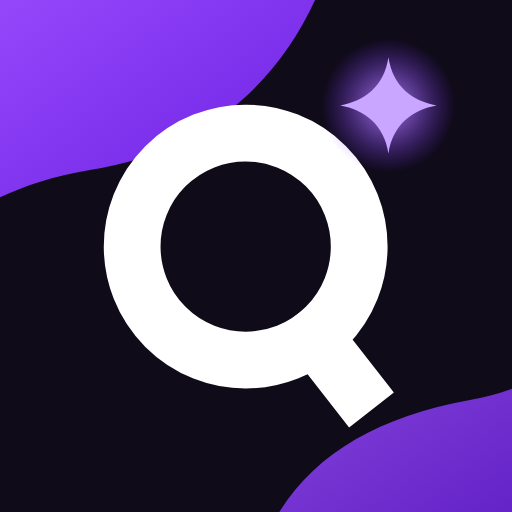
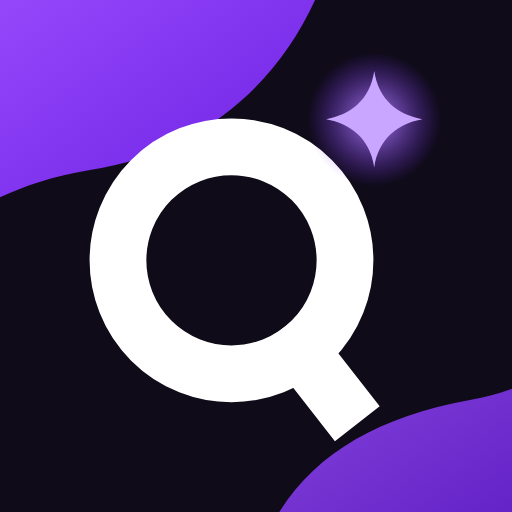
v87 : icône centrée (Q + étoile), distance des quêtes = vrai trajet
Claude-Session: https://claude.ai/code/session_01QrpCiG9GfaW4vbnyS2JTTs

diff --git a/index.html b/index.html
@@ -1042,7 +1042,7 @@ body::after{bottom:-60px;right:-80px;width:220px;height:170px;border-radius:120p
    ========================================================= */
 
 const KEY = 'questrun.v1';
-const VERSION = 'v86';
+const VERSION = 'v87';
 const PTS = { common: 100, rare: 250, epic: 500, legend: 1000, mythic: 2000 };
 // rareté d'une carte = effort pour y aller et revenir (km A/R + D+) ; un trésor caché monte d'un cran (27/10)
 const TIERS = ['common', 'rare', 'epic', 'legend'];
@@ -1324,7 +1324,21 @@ function weekId(d = new Date()) {
   return y + '-W' + String(w).padStart(2, '0');
 }
 function daysLeft() { const d = new Date().getDay() || 7; return 8 - d; }
-function roundTripKm(p) { return (p.dist * 2 * ROAD / 1000); }
+// 05/11 : si le vrai trajet est connu (calculé une fois), on affiche sa distance partout (S.rkm)
+function roundTripKm(p) { const k = S.rkm && S.rkm[p.id]; return k || (p.dist * 2 * ROAD / 1000); }
+// calcule le vrai trajet maison → lieu en arrière-plan et le garde
+const rkmBusy = {};
+async function fetchRouteKm(p) {
+  if (!p || !S.home || (S.rkm && S.rkm[p.id]) || rkmBusy[p.id]) return null;
+  rkmBusy[p.id] = 1;
+  try {
+    const rare = p.rarity === 'rare', t = { lat: rare ? p.zlat : p.lat, lng: rare ? p.zlng : p.lng };
+    const R = await makeRoute({ lat: S.home.lat, lng: S.home.lng }, t, null, sportOf({ sport: S.sport }).router);
+    if (!R || !R.real || !R.dist) return null;
+    S.rkm = S.rkm || {}; S.rkm[p.id] = R.dist * 2 / 1000; save();
+    return S.rkm[p.id];
+  } catch (e) { return null; } finally { delete rkmBusy[p.id]; }
+}
 let toastT;
 function toast(msg) { const t = $('#toast'); t.textContent = msg; t.classList.add('on'); clearTimeout(toastT); toastT = setTimeout(() => t.classList.remove('on'), 2600); }
 
@@ -2286,7 +2300,7 @@ function openQuest(i) {
       <button class="qsharei" id="qshare" aria-label="Partager la quête avec un ami"><svg viewBox="0 0 24 24" fill="none" stroke="currentColor" stroke-width="2.2" stroke-linecap="round" stroke-linejoin="round"><path d="M12 3v12"/><path d="M7.5 7.5 12 3l4.5 4.5"/><path d="M5 12v7a2 2 0 0 0 2 2h10a2 2 0 0 0 2-2v-7"/></svg></button></div>
     ${tierBadge(qTier(q), ` · +${PTS[qTier(q)]} ★`)}${q.legend && !q.star && !q.bought ? ` <span class="legtime" style="font-size:13px">⏳ encore ${hoursLeft(q)} h</span>` : ''}
     <h3 style="margin:8px 0 2px">${esc(q.mythic ? q.mythName : mysteryName(p))}</h3>
-    <p class="muted" style="margin:0 0 12px">${esc(p.label)} · ≈ ${roundTripKm(p).toFixed(1).replace('.', ',')} km aller-retour ${hillBadge(questDplus(p))}</p>
+    <p class="muted" style="margin:0 0 12px">${esc(p.label)} · <span id="qkm">${S.rkm && S.rkm[p.id] ? '' : '≈ '}${roundTripKm(p).toFixed(1).replace('.', ',')}</span> km aller-retour ${hillBadge(questDplus(p))}</p>
     ${sageBox('', 'qsay')}
     <div class="row" style="margin-top:0"><button class="btn run" id="gorun">🏃 J'y vais !</button></div>
     ${S.testMode ? '<button class="link" id="here" style="margin:4px auto 0">✅ J\'y suis (test)</button>' : ''}
@@ -2300,6 +2314,8 @@ function openQuest(i) {
   sh.querySelector('#lost').onclick = () => report(i);
   sh.querySelector('#qshare').onclick = () => shareQuest(q, p);
   typeText(sh.querySelector('#qsay'), say, sh.querySelector('#qsayb'));
+  // vraie distance du trajet (même calcul que l'écran de départ)
+  fetchRouteKm(p).then(k => { const e = sh.querySelector('#qkm'); if (k && e && e.isConnected) e.textContent = k.toFixed(1).replace('.', ','); });
   const row = document.querySelector(`#qlist .quest[data-i="${i}"] .num`); if (row) row.classList.remove('new');
 }
 
@@ -3462,6 +3478,7 @@ async function planRoute() {
   const R = await makeRoute(from, t, RUN.phase === 'back' ? RUN.goRoute : null, sportOf(RUN).router);
   if (!RUN || RUN.sport !== want) return; // sport changé entre-temps
   RUN.route = R;
+  if (RUN.phase === 'go' && !RUN.rerouted && R.real && R.dist && S.home && dist(from, S.home) < 300) { const p0 = placeById(RUN.pid); if (p0) { S.rkm = S.rkm || {}; S.rkm[p0.id] = R.dist * 2 / 1000; save(); } }
   if (RUN.phase === 'go' && !RUN.goRoute) RUN.goRoute = RUN.route.pts.filter((_, i) => i % 3 === 0).map(p => [p[0], p[1]]);
   if (RUN.phase === 'go' && RUN.rerouted) RUN.goRoute = RUN.goRoute.concat(RUN.route.pts.filter((_, i) => i % 3 === 0).map(p => [p[0], p[1]]));
   saveRun(); showRoute(RUN.ready || RUN.nav === false); drawRun();
@@ -4432,7 +4449,7 @@ function renderCamp() {
     try {
       const pl = await fetchPlaces(chosen, S.goal.km);
       if (!pl || !pl.length) throw new Error('aucun lieu');
-      S.home = chosen; S.homeEle = null;
+      S.home = chosen; S.homeEle = null; S.rkm = {};
       S.places = keepQuestPlaces(pl); S.placesFor = { lat: chosen.lat, lng: chosen.lng, km: S.goal.km, at: Date.now() };
       for (const k in greenPathCache) delete greenPathCache[k];
       try { await Promise.race([Promise.all([loadElevations(), loadGreen(), loadTrails()]), new Promise(r => setTimeout(r, 7000))]); } catch (e) {}
@@ -4681,7 +4698,7 @@ function onboarding(step = 0) {
     };
     $('#go').onclick = () => {
       if (!chosen) { toast('Place ton point de départ sur la carte'); return; }
-      if (!first()) return; S.home = chosen; save(); onboarding(S.onboarded ? 9 : 8);
+      if (!first()) return; S.home = chosen; S.rkm = {}; save(); onboarding(S.onboarded ? 9 : 8);
     };
   }
   if (step === 8) {

diff --git a/sw.js b/sw.js
@@ -1,5 +1,5 @@
 // Hors-ligne : on essaie le réseau d'abord, sinon la copie en cache.
-const CACHE = 'questrun-v86';
+const CACHE = 'questrun-v87';
 const SHELL = ['./', './index.html', './manifest.webmanifest', './icon.svg', './icon-192.png', './grimoire.svg', './sage.png'];
 const HOSTS = ['cdnjs.cloudflare.com', 'fonts.googleapis.com', 'fonts.gstatic.com'];
 

diff --git a/CLAUDE.md b/CLAUDE.md
@@ -62,6 +62,7 @@
 - **Raretés tirées au sort** (v45, 29/10, chiffres de Bazil) : chaque quête tire sa rareté (`TIER_ODDS` : Commune 36 %, Rare 35 %, Épique 18 %, Légendaire 10 %, Mythique 1 %), et la rareté décide de la distance (`TIER_KM` : ×1 / 1,15 / 1,3 / 1,5 / 1,6). Remplace « rareté = effort » pour les nouvelles quêtes (`q.tier`). Vitrine : table fixe de ces %. Changer/remplacer une quête garde sa rareté ; le lien ami transmet la rareté.
 - **Intro par le vieux sage** (v45) : 5 bulles courtes au lieu de l'écran de bienvenue (« Ah, te voilà enfin, jeune coureur ! » … « Une prophétie annonce l'Élu Runner… c'est toi ! » … « Alors, Élu… tu es prêt ? » → « Je suis prêt ! »). Étape 8 : le sage introduit les 3 secrets. Fin : « Va, Élu Runner. La ville compte sur toi ! ».
 - **Booster « Me prévenir »** (v45) : e-mail + case newsletter obligatoire (RGPD) → relais `/mail` → KV `PUSH`, clés `mail:…` (lire dans Cloudflare → KV). **Cadeau du jour** : plus de montants sur les jours (✓ / 🎁), montant seulement à l'ouverture.
+- **v87 (05/11)** : **icône** : le bloc Q + étoile est centré ensemble (plus seulement le Q). **Distance d'une quête = vraie distance du trajet** (Bazil : fiche 6,8 km mais 10,3 km au départ, à cause du trajet par les quais) : `fetchRouteKm` calcule le trajet maison → lieu à l'ouverture de la fiche, gardé dans `S.rkm` (aussi rempli par l'écran de départ, vidé si le camp de base change) ; `roundTripKm` l'utilise partout. Le tirage des quêtes vise toujours la distance « à vol d'oiseau × route » : une quête par les quais peut donc être plus longue que l'objectif.
 - **v86 (05/11)** : icône retouchée : **Q recentré** (groupe Q + étoile centré, réduit à 86 %) et **queue du Q à bout carré** (`stroke-linecap: square`) ; régénérée partout (icône d'écran d'accueil 180/192/512, favicon `icon.svg`, notifications, images partagées, étape 3 de l'installation).
 - **v85 (05/11) : trajet par les quais** (Bazil : l'appli proposait de traverser Billancourt, il voulait longer la Seine par la rive de Meudon jusqu'au Pont de Sèvres, « beaucoup plus beau ») :
   - **3 trajets comparés** (`makeRoute`) : direct agréable, par les parcours (≤ +25 %), **par les quais** (`waterVia`, ≤ **+90 %**). Le gagnant = le plus **beau** (`routeBeauty` : part du trajet au bord de l'eau, ×1 ; dans le vert, ×0,6), moins 0,35 × le surplus de distance. Exemple Boulogne → Pont de Sèvres : quais 70 % beau à ×1,8 > direct 33 %.
